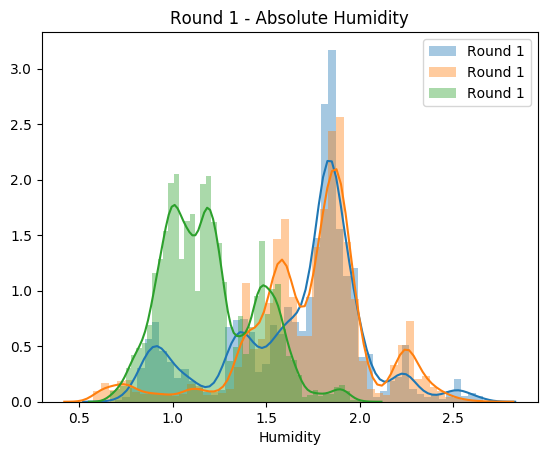
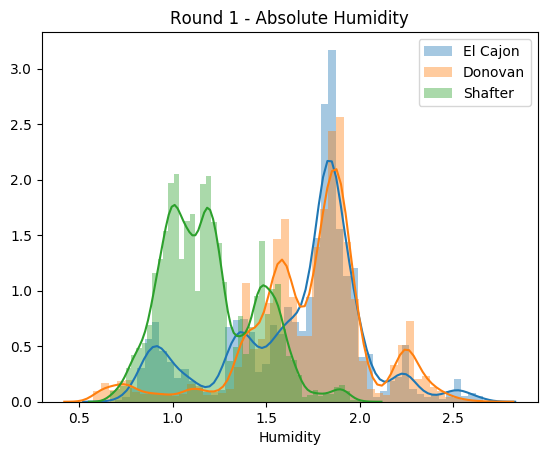
nicer plots

Changed region(s): [[0.7405, 0.0923, 0.9564, 0.2154]]

diff --git a/scripts/generate_distribution_plots.py b/scripts/generate_distribution_plots.py
@@ -66,6 +66,12 @@ LOCATION_O3 = {
     'shafter': plt.subplots()
 }
 
+LOCATION_NAME_MAP = {
+    'elcajon': "El Cajon",
+    'shafter': "Shafter",
+    'donovan': "Donovan",
+}
+
 for location in LOCATION_PLOTS:
     LOCATION_PLOTS[location][1].set_title("%s - Temperature" % location)
 for location in LOCATION_NO2:
@@ -83,7 +89,7 @@ for round in BOARDS:
     for location in BOARDS[round]:
         data = pd.concat(load(round, location, BOARDS[round][location]))
         data['Round'] = round
-        data['Location'] = location
+        data['Location'] = LOCATION_NAME_MAP[location]
         temperature = data['temperature'] * 9 / 5 + 32
         data['temperature-F'] = temperature
         if total_data is None:
@@ -93,12 +99,12 @@ for round in BOARDS:
         humidity = data['absolute-humidity']
         no2 = data[data["epa-no2"] < data["epa-no2"].quantile(0.99)]["epa-no2"]
         o3 = data[data["epa-o3"] < data["epa-o3"].quantile(0.99)]["epa-o3"]
-        sns.distplot(temperature, ax=ROUND_PLOTS[round][1], label=location, axlabel='Temperature (F)', kde_kws=dict(bw='silverman'), norm_hist=False)
+        sns.distplot(temperature, ax=ROUND_PLOTS[round][1], label=LOCATION_NAME_MAP[location], axlabel='Temperature (F)', kde_kws=dict(bw='silverman'), norm_hist=False)
         sns.distplot(temperature, ax=LOCATION_PLOTS[location][1], label="Round %u" % round, axlabel='Temperature (F)', kde_kws=dict(bw='silverman'), norm_hist=False)
-        sns.distplot(humidity, ax=ROUND_HUMIDITY_PLOTS[round][1], label="Round %u" % round, axlabel='Humidity', kde_kws=dict(bw='silverman'), norm_hist=False)
+        sns.distplot(humidity, ax=ROUND_HUMIDITY_PLOTS[round][1], label=LOCATION_NAME_MAP[location], axlabel='Humidity', kde_kws=dict(bw='silverman'), norm_hist=False)
         sns.distplot(humidity, ax=HUMIDITY_PLOTS[location][1], label="Round %u" % round, axlabel='Humidity', kde_kws=dict(bw='silverman'), norm_hist=False)
-        sns.distplot(no2, ax=ROUND_NO2[round][1], label=location, axlabel='NO2 (ppb)', kde_kws=dict(bw='silverman'), norm_hist=False)
-        sns.distplot(o3, ax=ROUND_O3[round][1], label=location, axlabel='O3 (ppb)', kde_kws=dict(bw='silverman'), norm_hist=False)
+        sns.distplot(no2, ax=ROUND_NO2[round][1], label=LOCATION_NAME_MAP[location], axlabel='NO2 (ppb)', kde_kws=dict(bw='silverman'), norm_hist=False)
+        sns.distplot(o3, ax=ROUND_O3[round][1], label=LOCATION_NAME_MAP[location], axlabel='O3 (ppb)', kde_kws=dict(bw='silverman'), norm_hist=False)
         sns.distplot(no2, ax=LOCATION_NO2[location][1], label="Round %u" % round, axlabel='NO2 (ppb)', kde_kws=dict(bw='silverman'), norm_hist=False)
         sns.distplot(o3, ax=LOCATION_O3[location][1], label="Round %u" % round, axlabel='O3 (ppb)', kde_kws=dict(bw='silverman'), norm_hist=False)
     ROUND_HUMIDITY_PLOTS[round][1].legend(loc='best')
@@ -115,14 +121,14 @@ for location in LOCATION_O3:
     LOCATION_O3[location][1].legend(loc='best')
 
 TEMPERATURE_PLOT = plt.subplots()
-sns.distplot(total_data['temperature-F'][total_data['Location'] == 'elcajon'], ax=TEMPERATURE_PLOT[1], label="El Cajon", axlabel='Temperature (F)', kde_kws=dict(bw='silverman'), norm_hist=False)
-sns.distplot(total_data['temperature-F'][total_data['Location'] == 'donovan'], ax=TEMPERATURE_PLOT[1], label="Donovan", axlabel='Temperature (F)', kde_kws=dict(bw='silverman'), norm_hist=False)
-sns.distplot(total_data['temperature-F'][total_data['Location'] == 'shafter'], ax=TEMPERATURE_PLOT[1], label="Shafter", axlabel='Temperature (F)', kde_kws=dict(bw='silverman'), norm_hist=False)
+sns.distplot(total_data['temperature-F'][total_data['location'] == 'elcajon'], ax=TEMPERATURE_PLOT[1], label="El Cajon", axlabel='Temperature (F)', kde_kws=dict(bw='silverman'), norm_hist=False)
+sns.distplot(total_data['temperature-F'][total_data['location'] == 'donovan'], ax=TEMPERATURE_PLOT[1], label="Donovan", axlabel='Temperature (F)', kde_kws=dict(bw='silverman'), norm_hist=False)
+sns.distplot(total_data['temperature-F'][total_data['location'] == 'shafter'], ax=TEMPERATURE_PLOT[1], label="Shafter", axlabel='Temperature (F)', kde_kws=dict(bw='silverman'), norm_hist=False)
 TEMPERATURE_PLOT[1].legend(loc='best')
 HUMIDITY_PLOT = plt.subplots()
-sns.distplot(total_data['absolute-humidity'][total_data['Location'] == 'elcajon'], ax=HUMIDITY_PLOT[1], label="El Cajon", axlabel='Humidity (kPa)', kde_kws=dict(bw='silverman'), norm_hist=False)
-sns.distplot(total_data['absolute-humidity'][total_data['Location'] == 'donovan'], ax=HUMIDITY_PLOT[1], label="Donovan", axlabel='Humidity (kPa)', kde_kws=dict(bw='silverman'), norm_hist=False)
-sns.distplot(total_data['absolute-humidity'][total_data['Location'] == 'shafter'], ax=HUMIDITY_PLOT[1], label="Shafter", axlabel='Humidity (kPa)', kde_kws=dict(bw='silverman'), norm_hist=False)
+sns.distplot(total_data['absolute-humidity'][total_data['location'] == 'elcajon'], ax=HUMIDITY_PLOT[1], label="El Cajon", axlabel='Humidity (kPa)', kde_kws=dict(bw='silverman'), norm_hist=False)
+sns.distplot(total_data['absolute-humidity'][total_data['location'] == 'donovan'], ax=HUMIDITY_PLOT[1], label="Donovan", axlabel='Humidity (kPa)', kde_kws=dict(bw='silverman'), norm_hist=False)
+sns.distplot(total_data['absolute-humidity'][total_data['location'] == 'shafter'], ax=HUMIDITY_PLOT[1], label="Shafter", axlabel='Humidity (kPa)', kde_kws=dict(bw='silverman'), norm_hist=False)
 HUMIDITY_PLOT[1].legend(loc='best')
 
 out_dir = Path('results') / 'distributions'

diff --git a/results/distributions/location_summary.tex b/results/distributions/location_summary.tex
@@ -3,7 +3,7 @@
         &       &        epa-no2 &         epa-o3 &    temperature &       pressure &       humidity \\
 Location & {} &                &                &                &                &                \\
 \midrule
-donovan & count &  100788.000000 &  100788.000000 &  100788.000000 &  100788.000000 &  100788.000000 \\
+Donovan & count &  100788.000000 &  100788.000000 &  100788.000000 &  100788.000000 &  100788.000000 \\
         & mean &      10.434149 &      33.742201 &      24.169544 &     991.767126 &      45.937553 \\
         & std &      10.806435 &      15.377371 &       5.623704 &       3.225557 &      21.965513 \\
         & min &       0.000000 &       0.000000 &      13.900000 &     982.820000 &       4.086000 \\
@@ -11,7 +11,7 @@ donovan & count &  100788.000000 &  100788.000000 &  100788.000000 &  100788.000
         & 50\% &       7.000000 &      35.000000 &      22.620000 &     991.460000 &      49.513000 \\
         & 75\% &      14.000000 &      43.000000 &      27.000000 &     993.610000 &      64.396000 \\
         & max &     157.000000 &      96.000000 &      49.710000 &    1004.160000 &      92.753000 \\
-elcajon & count &   97412.000000 &   97412.000000 &   97412.000000 &   97412.000000 &   97412.000000 \\
+El Cajon & count &   97412.000000 &   97412.000000 &   97412.000000 &   97412.000000 &   97412.000000 \\
         & mean &      12.914015 &      29.331499 &      24.341702 &     997.287606 &      43.923309 \\
         & std &       9.732012 &      19.337040 &       8.232391 &       3.507203 &      20.076611 \\
         & min &       0.000000 &       1.000000 &       5.430000 &     989.230000 &       2.733000 \\
@@ -19,7 +19,7 @@ elcajon & count &   97412.000000 &   97412.000000 &   97412.000000 &   97412.000
         & 50\% &      10.000000 &      31.000000 &      23.380000 &     996.890000 &      45.052500 \\
         & 75\% &      20.000000 &      43.000000 &      29.700000 &     999.450000 &      61.166250 \\
         & max &      66.000000 &      95.000000 &      49.790000 &    1010.480000 &      85.827000 \\
-shafter & count &  119785.000000 &  119785.000000 &  119785.000000 &  119785.000000 &  119785.000000 \\
+Shafter & count &  119785.000000 &  119785.000000 &  119785.000000 &  119785.000000 &  119785.000000 \\
         & mean &      12.578259 &      26.357091 &      22.100842 &    1003.882723 &      45.804388 \\
         & std &       9.078981 &      20.739128 &       8.184091 &       5.595797 &      18.072375 \\
         & min &       0.000000 &       0.000000 &       4.010000 &     872.755556 &       6.349000 \\
